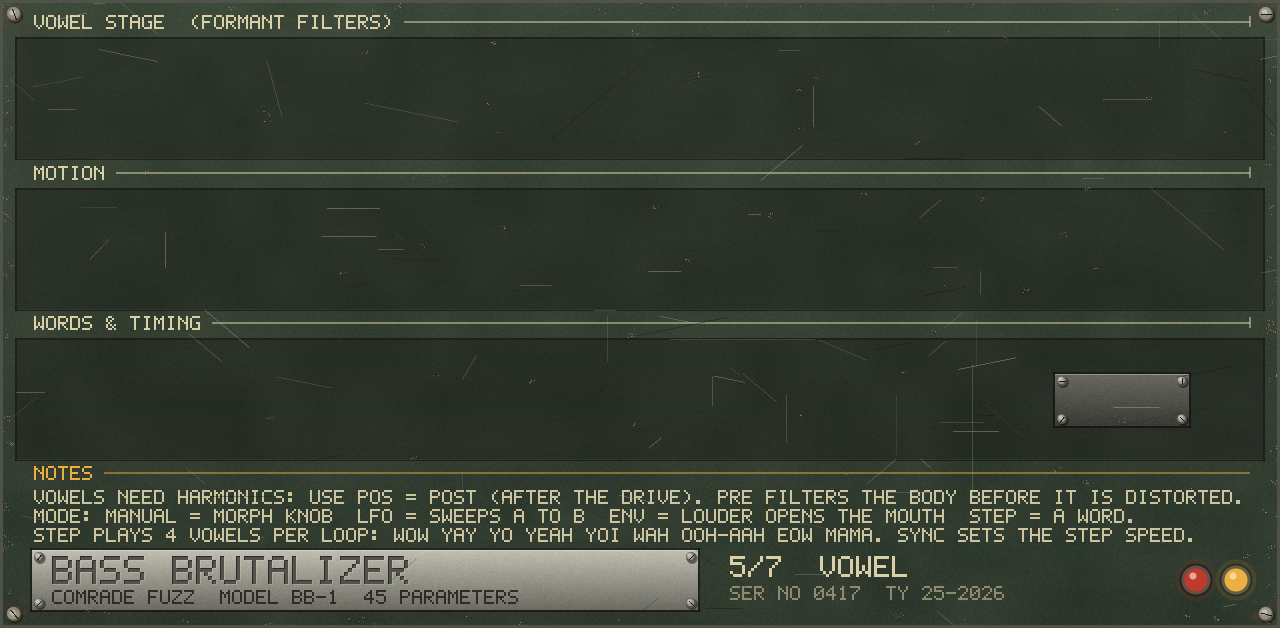
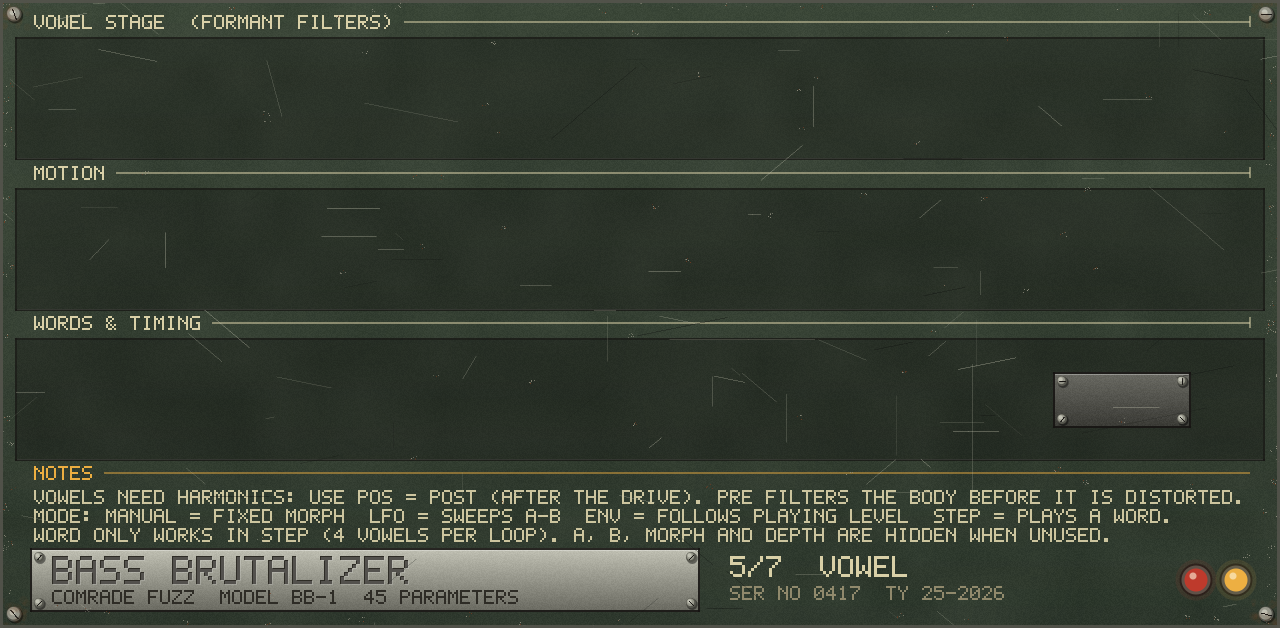
Env follows the level, stronger formants, mode-aware VOWEL page, two found presets
- Vowel Env mode now follows the level relative to its recent peak (a decaying
  808 sweeps B to A), tests/vowel_test.cpp checks it on a decaying hit.
- Formant gains raised, Vow Q default 70, Vow Mode defaults to Step.
- VOWEL page hides controls the chosen mode does not use (Word only in Step).
- Two programs from the user's Red Button saves: Moving Harmonics, Total Filth.
- README: MAIN page mock-up and a short description; vowel usage notes.

Changed region(s): [[0.0938, 0.7866, 0.9375, 0.8774], [0.0312, 0.8471, 0.0625, 0.8774]]

diff --git a/src/BassBrutalizer.cpp b/src/BassBrutalizer.cpp
@@ -138,7 +138,7 @@ constexpr int kNumVowels = 7;   // OO OH UH AH AE EH EE
 constexpr Formant kVowels[kNumVowels] = {
     {300, 870, 2240}, {500, 830, 2500}, {640, 1190, 2390}, {730, 1090, 2440},
     {660, 1720, 2410}, {530, 1840, 2480}, {270, 2290, 3010}};
-constexpr float kFormGain[3] = {1.0f, 0.75f, 0.45f};
+constexpr float kFormGain[3] = {1.0f, 0.9f, 0.6f};
 constexpr int kNumWords = 9;
 constexpr int kWords[kNumWords][4] = {
     {0, 3, 1, 0},   // WOW      oo ah oh oo
@@ -210,8 +210,8 @@ struct PS
     float bits = 16, dec = 1, ring = 0, ringHz = 150, oct = 0, tilt = 0, multi = 0, hiSplit = 3000, hiDrv = 0;
     float wobPos = kWobOff, wobRate = 2, wobDepth = 50, wobFreq = 600, wobReso = 40, wobShape = 0, wobSync = 0;
     float crushOn = 1, ringOn = 1, wobOn = 1;
-    float vowOn = 1, vowPos = 0, vowA = 0, vowB = 3, vowMorph = 0, vowMode = 0, vowRate = 2, vowSync = 0, vowDepth = 70,
-          vowGlide = 25, vowWord = 0, gender = 0, vowQ = 60, vowMix = 100, vowChar = 0;
+    float vowOn = 1, vowPos = 0, vowA = 0, vowB = 3, vowMorph = 0, vowMode = 3, vowRate = 2, vowSync = 0, vowDepth = 70,
+          vowGlide = 25, vowWord = 0, gender = 0, vowQ = 70, vowMix = 100, vowChar = 0;
 
     // vowel stage: pos 0 Off / 1 Pre / 2 Post; mode 0 Manual / 1 LFO / 2 Env / 3 Step
     PS& Vow(float pos, float modeIdx, float word, float syncIdx, float rate = 2)
@@ -300,7 +300,7 @@ public:
         addParam(mpc::choiceParam("vowa",     "Vowel A",   vowelNames, 0));
         addParam(mpc::choiceParam("vowb",     "Vowel B",   vowelNames, 3));
         addParam(mpc::floatParam ("vowmorph", "Morph",     0.0f, 100.0f, 0.0f,  "%",  0));
-        addParam(mpc::choiceParam("vowmode",  "Vow Mode",  {"Manual", "LFO", "Env", "Step"}, 0));
+        addParam(mpc::choiceParam("vowmode",  "Vow Mode",  {"Manual", "LFO", "Env", "Step"}, 3));
         addParam(mpc::logParam   ("vowrate",  "Vow Rate",  0.1f, 20.0f,  2.0f,  "Hz", 2));
         {
             std::vector<std::string> names{"Free"};
@@ -312,7 +312,7 @@ public:
         addParam(mpc::choiceParam("vowword",  "Vow Word",
                                   {"WOW", "YAY", "YO", "YEAH", "YOI", "WAH", "OOH-AAH", "EOW", "MAMA"}, 0));
         addParam(mpc::floatParam ("gender",   "Gender",    -12.0f, 12.0f, 0.0f, "st", 1));
-        addParam(mpc::floatParam ("vowq",     "Vow Q",     0.0f, 100.0f, 60.0f, "%",  0));
+        addParam(mpc::floatParam ("vowq",     "Vow Q",     0.0f, 100.0f, 70.0f, "%",  0));
         addParam(mpc::floatParam ("vowmix",   "Vow Mix",   0.0f, 100.0f, 100.0f, "%", 0));
         addParam(mpc::choiceParam("vowchar",  "Vow Char",  {"Normal", "Choir", "Whisper", "Robot"}, 0));
 
@@ -363,6 +363,23 @@ public:
         addProgram2("Robot Vowel",    PS().Out(-5).Drv(28).Mode(kHard).Split(80).Sub(50).Tone(8000).Vow(2, 3, 6, 8).Voice(0, 60, 100, 3, 5));
         addProgram2("Alien Eow",      PS().Out(-10).Drv(34).Mode(kFold).Split(80).Sub(30).Tone(9000).Vow(2, 3, 7, 8).Voice(5, 80, 100, 0, 40));
         addProgram2("Pre Growl",      PS().Out(-6).Drv(36).Mode(kHard).Split(80).Sub(40).Tone(8000).Vow(1, 1, 0, 11).VowAB(0, 3, 50, 100));
+
+        // --- found by the Red Button (Bat Shit Crazy) and kept; values copied from the user's saved presets ---
+        {
+            PS p;
+            p.out = -10.4f; p.drv = 28.6f; p.mode = kFold; p.bias = 2.6f; p.split = 40.5f; p.sub = 21.4f; p.tone = 3661.0f; p.mix = 79.8f;
+            p.ring = 43.8f; p.ringHz = 334.8f; p.tilt = 0.8f; p.hiSplit = 1393.7f; p.hiDrv = 9.1f;
+            p.wobPos = kWobPost; p.wobRate = 0.586f; p.wobDepth = 83.7f; p.wobFreq = 1364.7f; p.wobReso = 77.2f; p.wobShape = 0; p.wobSync = 11;
+            p.crushOn = 0;   // Bits and Decimate are inactive in this one
+            addProgram2("Moving Harmonics", p);
+        }
+        {
+            PS p;
+            p.out = -10.2f; p.drv = 26.9f; p.mode = kSoft; p.bias = 24.6f; p.split = 34.5f; p.sub = 25.8f; p.tone = 2955.0f; p.mix = 96.6f;
+            p.bits = 2; p.dec = 2.99f; p.ring = 14.6f; p.ringHz = 662.6f; p.oct = 77.5f; p.tilt = 1.8f; p.hiSplit = 2216.9f; p.hiDrv = 8.3f;
+            p.wobPos = kWobPre; p.wobRate = 0.108f; p.wobDepth = 73.9f; p.wobFreq = 168.4f; p.wobReso = 57.2f; p.wobShape = 1; p.wobSync = 16;
+            addProgram2("Total Filth", p);
+        }
     }
 
     void prepare(double sampleRate, int maxBlockSize) override
@@ -380,6 +397,7 @@ public:
         }
         envAtk_ = 1.0f - std::exp(-1.0f / (0.005f * (float)sampleRate));
         envRel_ = 1.0f - std::exp(-1.0f / (0.12f * (float)sampleRate));
+        peakDecay_ = std::exp(-1.0f / (4.0f * (float)sampleRate));   // the peak reference forgets over about 4 s
         lfoV_.setSampleRate(sampleRate);
         octDecay_ = std::exp(-1.0f / (0.05f * (float)sampleRate));
         lfo_.setSampleRate(sampleRate);
@@ -399,7 +417,7 @@ public:
         wobCount_ = 0;
         lfo_.reset(0.0f);
         lfoV_.reset(0.0f);
-        vEnv_ = 0.0f; vCount_ = 0; stepPhase_ = 0.0f; stepIdx_ = 0; vSnap_ = true;
+        vEnv_ = 0.0f; vPeak_ = 0.0f; vCount_ = 0; stepPhase_ = 0.0f; stepIdx_ = 0; vSnap_ = true;
         drive_.snap(mpc::dsp::dbToGain(get(kDrive)));
         bias_.snap(get(kBias) * 0.01f);
         sub_.snap(get(kSub) * 0.01f);
@@ -556,6 +574,10 @@ public:
                 }
                 a *= numChannels > 0 ? 1.0f / (float)numChannels : 0.0f;
                 vEnv_ += (a > vEnv_ ? envAtk_ : envRel_) * (a - vEnv_);
+                // Env mode follows the level RELATIVE to the recent peak, so it works at any input level:
+                // the louder part of a note (or a decaying 808) opens toward vowel B, the quiet part closes to A.
+                vPeak_ = std::max(vEnv_, vPeak_ * peakDecay_);
+                const float envNorm = mpc::clamp(vEnv_ / std::max(vPeak_, 0.01f), 0.0f, 1.0f);
                 stepPhase_ += stepInc;
                 if (stepPhase_ >= 1.0f) { stepPhase_ -= 1.0f; stepIdx_ = (stepIdx_ + 1) & 3; }
                 const float lv = vowModeSel == 1 ? lfoV_.process() : 0.0f;
@@ -574,7 +596,7 @@ public:
                     {
                         float m = vowMorph;
                         if (vowModeSel == 1)      m += vowDepth * lv;
-                        else if (vowModeSel == 2) m += vowDepth * mpc::clamp(vEnv_ * 2.0f, 0.0f, 1.0f);
+                        else if (vowModeSel == 2) m += vowDepth * envNorm;
                         m = mpc::clamp(m, 0.0f, 1.0f);
                         if (vowChar == 3) m = m < 0.5f ? 0.0f : 1.0f;   // Robot: snap to a vowel
                         const Formant& fa = kVowels[vowA];
@@ -853,7 +875,7 @@ private:
     std::atomic<bool>  redResetPending_{false};
     mpc::dsp::LFO      lfoV_;                 // vowel LFO
     float              vFsm_[3] = {300.0f, 870.0f, 2240.0f};   // smoothed formant frequencies
-    float              vEnv_ = 0.0f, envAtk_ = 0.01f, envRel_ = 0.0002f;
+    float              vEnv_ = 0.0f, vPeak_ = 0.0f, envAtk_ = 0.01f, envRel_ = 0.0002f, peakDecay_ = 0.99999f;
     float              stepPhase_ = 0.0f;
     int                stepIdx_ = 0;
     unsigned           vCount_ = 0;

diff --git a/tests/vowel_test.cpp b/tests/vowel_test.cpp
@@ -111,18 +111,20 @@ int main(int argc, char** argv)
     check(a0 > 3.0 * a1, "Gender +12 moves the formants up (less energy where OO F1 used to be)");
     setn(GENDER, 0);
 
-    // ---- Env mode: with the same loud input, depth 100 opens toward vowel B and depth 0 does not
+    // ---- Env mode on a decaying hit (808 style): with depth 100 the vowel opens toward B on the loud
+    //      start and closes toward A as the note dies; with depth 0 it does not move.
     setp(VOWMODE, "Env"); setp(VOWA, "OO"); setp(VOWB, "EE"); setn(MORPH, 0); setn(VOWGLIDE, 5);
-    auto loud = [&](int n) { return 0.8f * saw(n) / 0.4f; };
+    auto hit = [&](int n) { return (float)(std::exp(-n / SR * 1.6) * saw(n)); };
+    auto brightness = [&](const std::vector<float>& v, double t0, double t1)
+    { return band(v, (size_t)(t0 * SR), (size_t)(t1 * SR), 1900, 2600) / std::max(1e-12, band(v, (size_t)(t0 * SR), (size_t)(t1 * SR), 200, 450)); };
     setn(VOWDEPTH, 0);
-    auto d0 = render(1.0, loud);
+    auto d0 = render(2.0, hit);
     setn(VOWDEPTH, 100);
-    auto d1 = render(1.0, loud);
-    size_t ea = (size_t)(0.5 * SR);
-    double h0 = band(d0, ea, d0.size(), 1900, 2600) / std::max(1e-12, band(d0, ea, d0.size(), 200, 450));
-    double h1 = band(d1, ea, d1.size(), 1900, 2600) / std::max(1e-12, band(d1, ea, d1.size(), 200, 450));
-    std::printf("INFO  high/low band ratio, loud input: depth 0 %.3f, depth 100 %.3f\n", h0, h1);
-    check(h1 > 2.0 * h0, "Mouth follow: loud input moves toward the bright vowel");
+    auto d1 = render(2.0, hit);
+    double drift0 = brightness(d0, 0.1, 0.3) / std::max(1e-12, brightness(d0, 1.0, 1.4));
+    double drift1 = brightness(d1, 0.1, 0.3) / std::max(1e-12, brightness(d1, 1.0, 1.4));
+    std::printf("INFO  brightness early/late on a decaying hit: depth 0 %.2f, depth 100 %.2f\n", drift0, drift1);
+    check(drift1 > 2.0 * drift0, "Env mode: the vowel follows the decay (opens on the loud start, closes as it dies)");
 
     // ---- Mix 0 must be transparent
     setp(VOWMODE, "Step"); setp(VOWMIX, "0");

diff --git a/skin-src/make_retro_skin.py b/skin-src/make_retro_skin.py
@@ -698,8 +698,8 @@ PAGES = {
         "captions": ["VOWEL STAGE  (FORMANT FILTERS)", "MOTION", "WORDS & TIMING"],
         "hints": [
             "VOWELS NEED HARMONICS: USE POS = POST (AFTER THE DRIVE). PRE FILTERS THE BODY BEFORE IT IS DISTORTED.",
-            "MODE: MANUAL = MORPH KNOB  LFO = SWEEPS A TO B  ENV = LOUDER OPENS THE MOUTH  STEP = A WORD.",
-            "STEP PLAYS 4 VOWELS PER LOOP: WOW YAY YO YEAH YOI WAH OOH-AAH EOW MAMA. SYNC SETS THE STEP SPEED.",
+            "MODE: MANUAL = FIXED MORPH  LFO = SWEEPS A-B  ENV = FOLLOWS PLAYING LEVEL  STEP = PLAYS A WORD.",
+            "WORD ONLY WORKS IN STEP (4 VOWELS PER LOOP). A, B, MORPH AND DEPTH ARE HIDDEN WHEN UNUSED.",
         ],
         "page_tag": "5/7  VOWEL",
     },
@@ -848,6 +848,18 @@ def build(preview):
                     if lab:
                         lab["bounds"]["bounds"] = "%d %d %d 16" % (x + 15 + pitch * k, y + cap_y, kw)
                         lab["componentData"]["data"]["textStyle"]["font"]["height"] = 15.0
+        if name == "VOWEL" and "Vow Mode" in by_name:
+            # Show only the controls the chosen Vow Mode uses (0 Manual, 1 LFO, 2 Env, 3 Step).
+            mode_handle = by_name["Vow Mode"]["handle remapping"]["map"][0]["value"]
+            conds = {"Vow Word": "IndexedEnabling/3/4/", "Vowel A": "RangedEnabling/0/2/4/",
+                     "Vowel B": "RangedEnabling/0/2/4/", "Morph": "RangedEnabling/0/2/4/",
+                     "Vow Depth": "RangedEnabling/1/2/4/"}
+            for c in comps:
+                prefix = conds.get(c["componentData"]["name"])
+                if prefix:
+                    c["bounds"]["version"] = 2
+                    c["bounds"]["showWhenDataModelInvalid"] = "Hide"
+                    c["bounds"]["additionalInvalidatingHandles"] = [prefix + mode_handle]
         if name == "RED BTN":
             tab["qlinkBoundsData"] = ["40 50 910 380"]
     restyle_text(pd)

diff --git a/README.md b/README.md
@@ -1,8 +1,12 @@
 # Bass Brutalizer
 
-by comrade fuzz. An insert effect for Akai MPC standalone (MPC OS 3.10.1+, External Plugin Support enabled).
+![Bass Brutalizer, MAIN page](docs/main-page.png)
 
-Bass destruction. The signal is split at **Split**: the low band can stay clean (scaled by **Sub**) while the rest is driven into a waveshaper, ring-modulated, bitcrushed, swept by a wobble filter and tone-filtered. An octave-down generator can thicken the sub.
+*The MAIN page, a mock-up rendered by `skin-src/make_retro_skin.py` (not a photo of the device; on the MPC the parameter names and values are drawn by the MPC itself).*
+
+Bass Brutalizer is an unholy abomination for the Akai MPC: an insert effect that takes your perfectly respectable 808, splits the clean sub away from the rest like a responsible adult, and feeds everything above it into a grinder of soft, hard, folded and rectified filth. Bitcrush it, ring-mod it, sweep it with a wobble filter, and when you run out of ideas, teach it to say "wow", "yay" and "yo" through a formant stage that has no business existing. Or give up on decisions altogether and press the big red button, which replaces every setting with a random patch at one of three sanity levels (Sober, Drunkish, Bat Shit Crazy). It wears a worn-enamel Soviet-instrument skin, because filth of this calibre deserves a proper nameplate. By comrade fuzz, probably against better advice.
+
+Needs MPC OS 3.10.1 or later with *External Plugin Support* switched on (Preferences, Enhancements). The signal is split at **Split**: the low band can stay clean (scaled by **Sub**) while the rest goes through the damage below.
 
 ## Signal flow
 
@@ -89,6 +93,12 @@ Tip: with Mix below 100% the dry signal still contains the sub, so "no clean sub
 - **Crush On, Ring On, Wobble On** switch their sections (CRUSH and WOBBLE pages).
 - **RED BTN page**: a big red button replaces the sound settings with a random patch; **Sanity** (Sober, Drunkish, Bat Shit Crazy) limits how wild it may be and sets a safe Output.
 - **Vowel stage** (parameters 30-44, `Vow ...`, Vowel A/B, Morph, Gender): formant filters that make vowels (OO OH UH AH AE EH EE), morphed by hand, by an LFO, by the input level (mouth follow) or by a four-step word (WOW, YAY, YO, YEAH, YOI, WAH, OOH-AAH, EOW, MAMA) in the MPC tempo; Choir, Whisper and Robot characters. Two pages (VOWEL, VOICE) and 14 presets (Wow Bass, Yay Growl, Yo-Yo, Yeah Bass, Yoi Yoi, Talking LFO, Mouth Follow, Choir Bass, Whisper Wub, Chipmunk, Giant Talk, Robot Vowel, Alien Eow, Pre Growl). The Red Button randomizer includes the vowel stage.
+
+How to use the vowel stage: set **Vowel On**, **Vow Pos = Post** (after the distortion; the filters need harmonics), then pick **Vow Mode**:
+- **Manual**: a fixed vowel between Vowel A and Vowel B (Morph).
+- **LFO**: sweeps between A and B (Vow Rate or Vow Sync, Vow Depth).
+- **Env**: follows the playing level relative to its recent peak: loud = B, quiet = A, so a decaying 808 closes its mouth.
+- **Step**: plays the four vowels of **Vow Word** in the MPC tempo (Vow Sync). Vow Word is used only in this mode; the controls a mode does not use are hidden on the VOWEL page.
 
 ## Building
 
